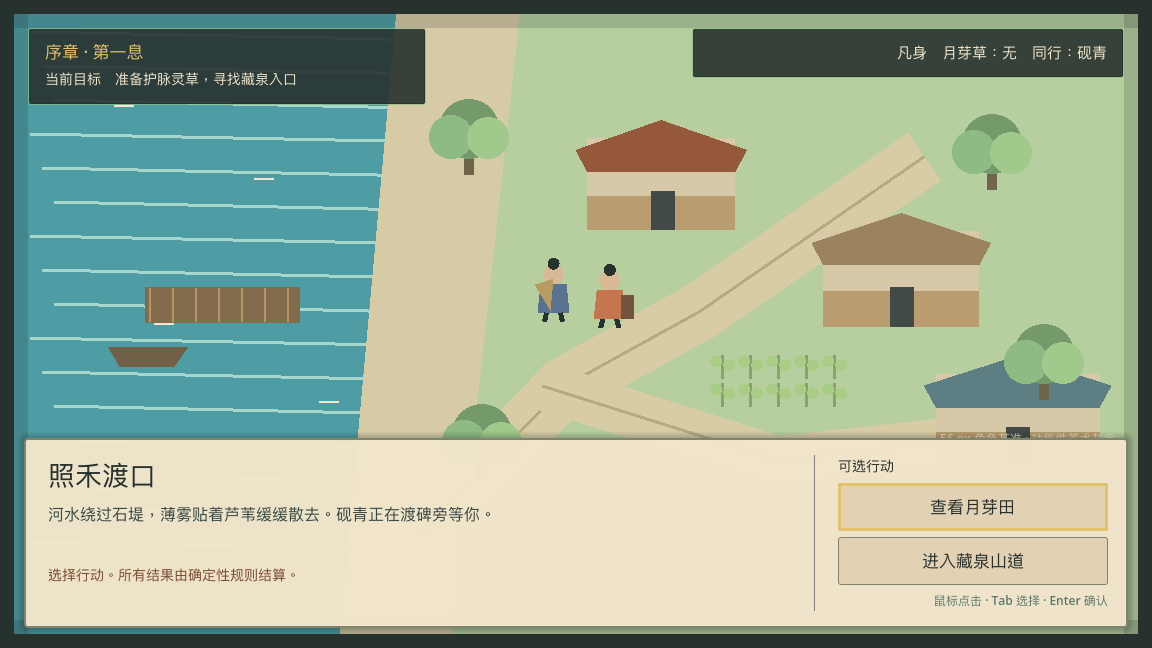
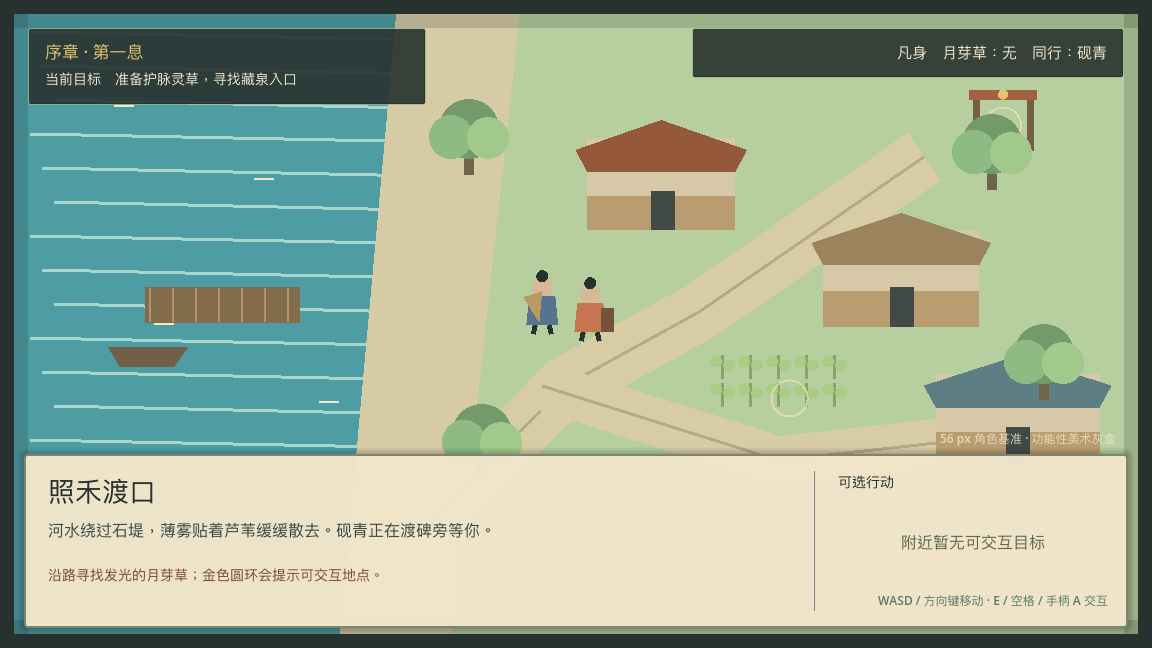
feat: add playable ferry exploration

diff --git a/docs/concepts/gameplay-ui-v1/README.md b/docs/concepts/gameplay-ui-v1/README.md
@@ -17,15 +17,16 @@ make capture-rpg-ui
 ![48、56、64 px 角色比例测试](00-actor-scale-test.png)
 
 同一轮廓分别置于亮草地、浅石路和冷影。48 px 的地图余量最好但身份信息不足；
-64 px 识别最强但会压缩道路与碰撞空间；56 px 作为当前工作基准，在正式 Sprite、
-移动速度和碰撞盒接入后再复核。
+64 px 识别最强但会压缩道路与碰撞空间；56 px 已接入第一轮自由移动与小于视觉
+轮廓的碰撞盒，仍需在正式 Sprite Sheet 和镜头缩放接入后复核。
 
 ## 照禾渡口
 
 ![照禾渡口功能性游戏镜头](01-zhaohe-ferry.png)
 
 地图占据主画面，章节与状态缩到上方，地点叙事和行动收在底部暖纸面板。渡口、
-河岸、道路、房屋、药田、主角和砚青可以在一个镜头中辨认。
+河岸、道路、房屋、药田、主角和砚青可以在一个镜头中辨认。主角现在可在河岸
+自由移动；河水、建筑和边界会阻挡移动，药田与山门只在靠近时显示行动。
 
 ## 藏泉山道战斗
 
@@ -50,8 +51,8 @@ make capture-rpg-ui
 
 ## 验证结论
 
-- 56 px 是当前角色高度工作基准，不是最终美术锁定；
-- 鼠标点击与 `Tab`、方向键、`Enter`、空格共享同一按钮行动；
+- 56 px 是经过首轮移动与碰撞验证的角色高度工作基准，不是最终美术锁定；
+- `WASD`/方向键、`E`/空格、鼠标行动和手柄 A 汇入同一语义输入路径；
 - 渡口、战斗、石室和完成态具有不同构图，规则状态仍完全来自 domain 层；
 - 中文地点、事件、目标、状态和行动在 1152×648 下完整显示；
-- 正式生产下一步是自由移动、碰撞、Sprite Sheet 与 TileSet，不继续精修代码绘图。
+- 正式生产下一步是版本化存档与标题流程，之后再替换 Sprite Sheet 与 TileSet。

diff --git a/rpg/README.md b/rpg/README.md
@@ -10,9 +10,11 @@ make test-rpg
 ```
 
 当前功能性美术灰盒采用明亮的全屏 RPG 镜头，并以 56 px 作为第一轮角色比例
-基准。照禾渡口、藏泉山道战斗与藏泉突破会随行动切换不同的原创场景构图。
-使用鼠标点击行动，或用 `Tab`/方向键切换焦点并按 `Enter`/空格确认。自由地图
-移动与正式 Sprite/Tile 仍将在后续循环加入；运行时绘制只用于验证布局和可读性。
+基准。在照禾渡口使用 `WASD` 或方向键移动，靠近金色交互圈后按 `E`、空格或
+手柄 A；也可以点击右侧出现的行动。河水、地图边缘和房屋具有确定性碰撞，必须
+亲自走到月芽田采集，再沿路抵达藏泉山门。战斗阶段使用鼠标点击，或用方向键
+切换焦点并按 `Enter`/手柄 A 确认。运行时绘制仍只用于验证布局、比例和可读性，
+正式 Sprite Sheet 与 TileSet 将在后续循环加入。
 
 设计合同见 [RPG 基础设计](../docs/design/RPG_FOUNDATION_v0.1.md) 与
 [美术方向 v0.2](../docs/design/ART_DIRECTION_v0.2.md)。

diff --git a/docs/DECISIONS.md b/docs/DECISIONS.md
@@ -4,6 +4,18 @@ Use this file for durable decisions. Do not depend on chat transcripts as the on
 
 ## Confirmed
 
+### 2026-08-01 — Playable-slice exploration baseline
+
+Use normalized world coordinates for the first playable map so rendering resolution does not
+change traversal, collision, or interaction outcomes. Keep exploration state and collision in a
+deterministic domain object rather than the scene tree. The 1152×648 development viewport and
+56 px actor height are accepted for this slice; the collision footprint is intentionally smaller
+than the visible silhouette. Keyboard, mouse, and controller input converge on semantic move and
+interact actions, and world interactions require proximity rather than remote menu selection.
+
+This is an implementation baseline for the overnight playable slice, not a release-platform or
+final-sprite commitment.
+
 ### 2026-08-01 — Brighter and more optimistic visual tone
 
 Refine the confirmed hybrid art direction toward clear daylight, fresh air, visible water,

diff --git a/docs/PROJECT_CONTEXT.md b/docs/PROJECT_CONTEXT.md
@@ -124,7 +124,7 @@ Nakama may be evaluated later if the product grows into match-based content, ext
 
 Expand the executable RPG graybox into a complete 90-minute original chapter:
 
-1. top-down movement and collision in 照禾渡口;
+1. top-down movement, collision, and proximity interaction in 照禾渡口 (implemented);
 2. dialogue and quest-state presentation;
 3. 月芽田 resource choice;
 4. 藏泉山道 exploration, warning, and retreat path;
